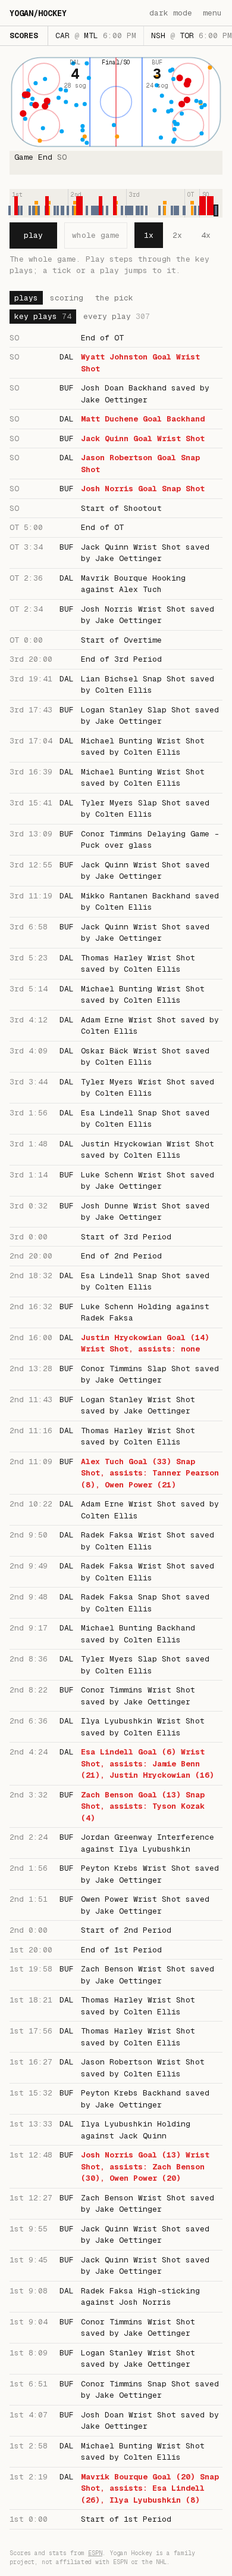
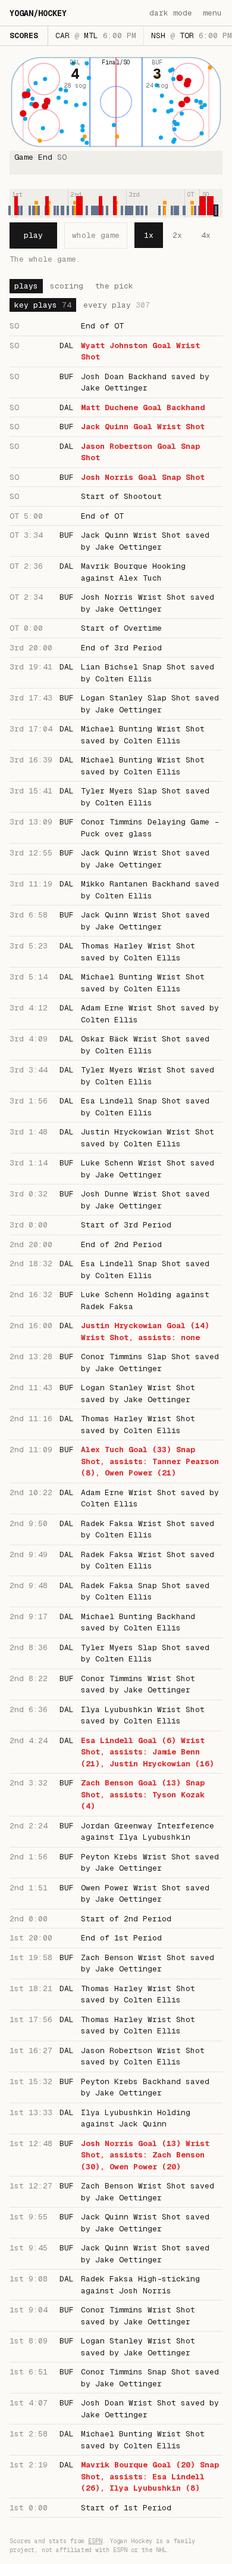
Replay: review fixes and build notes
A failed archive no longer takes the game page down; the page keeps what the
visitor picked when the Replay's plays arrive; a step is timed from the last
move of the playhead; "whole game" keeps the keyboard's focus when it turns
idle. The build notes say what the Replay taught.

diff --git a/apps/web/components/game/replay.tsx b/apps/web/components/game/replay.tsx
@@ -39,9 +39,15 @@ export function Replay({
   tab,
   pathname,
   pick,
+  pending,
 }: {
   header: GameHeader;
   plays: readonly Play[];
+  /**
+   * Shown in place of the controls while `plays` are not yet D1's: the game is laid out and can
+   * be browsed, and what the visitor picked is kept when the controls arrive.
+   */
+  pending?: ReactNode;
   notice?: string;
   tab: GameTab;
   pathname: string;
@@ -52,15 +58,17 @@ export function Replay({
   const dispatch = (action: ReplayAction) =>
     setReplay((state) => replayReducer(state, action, plays, everyPlay));
 
-  // The fixed pace: a step every so often while playing, whatever the game's real gaps were.
+  // The fixed pace: one step a while after the playhead last moved, whatever the game's real gaps
+  // were. Timed from each move, so a play clicked while playing is shown for a whole step.
+  const { playing, speed, playhead } = replay;
   useEffect(() => {
-    if (!replay.playing) return;
-    const pace = setInterval(
+    if (!playing || playhead == null) return;
+    const pace = setTimeout(
       () => setReplay((state) => replayReducer(state, { type: "step" }, plays, everyPlay)),
-      stepMilliseconds(replay.speed),
+      stepMilliseconds(speed),
     );
-    return () => clearInterval(pace);
-  }, [replay.playing, replay.speed, plays, everyPlay]);
+    return () => clearTimeout(pace);
+  }, [playing, speed, playhead, plays, everyPlay]);
 
   const { played, upcoming } = splitAtPlayhead(plays, replay.playhead);
   const wholeGame = upcoming.length === 0;
@@ -81,13 +89,15 @@ export function Replay({
       everyPlay={everyPlay}
       onEveryPlayChange={setEveryPlay}
       transport={
-        <ReplayTransport
-          replay={replay}
-          wholeGame={wholeGame}
-          position={replayPosition(plays, replay.playhead, everyPlay)}
-          everyPlay={everyPlay}
-          dispatch={dispatch}
-        />
+        pending ?? (
+          <ReplayTransport
+            replay={replay}
+            wholeGame={wholeGame}
+            position={replayPosition(plays, replay.playhead, everyPlay)}
+            everyPlay={everyPlay}
+            dispatch={dispatch}
+          />
+        )
       }
     />
   );
@@ -128,8 +138,10 @@ function ReplayTransport({
       <Button
         data-slot="replay-end"
         variant="outline"
-        className="max-sm:h-11 max-sm:px-3"
-        disabled={wholeGame && !replay.playing}
+        className="aria-disabled:cursor-default aria-disabled:opacity-50 aria-disabled:hover:bg-transparent max-sm:h-11 max-sm:px-3"
+        // Not `disabled`: the button turns idle under the finger that pressed it, and a disabled
+        // button drops the keyboard's focus.
+        aria-disabled={wholeGame && !replay.playing}
         onClick={() => dispatch({ type: "end" })}
       >
         whole game
@@ -197,12 +209,12 @@ function ReplaySpeedChoice({
 /** Where the transport will be, for a finished game whose plays are not in D1 yet. */
 export function ReplayPending({ gaveUp }: { gaveUp: boolean }) {
   return (
-    <div data-slot="replay-transport" className="mt-2 flex flex-wrap items-center gap-x-3 gap-y-2">
+    <div data-slot="replay-pending" className="mt-2 flex flex-wrap items-center gap-x-3 gap-y-2">
       <Button className="w-16 max-sm:h-11 max-sm:w-20" disabled>
         play
       </Button>
       <p
-        data-slot="replay-position"
+        data-slot="replay-pending-note"
         className="min-w-0 flex-1 truncate text-foreground/50 max-sm:basis-full"
       >
         {gaveUp

diff --git a/apps/web/lib/replay.ts b/apps/web/lib/replay.ts
@@ -30,13 +30,20 @@ export async function replayPlays(
  * The game a page draws, made ready for the Replay when it is over. A snapshot the Game Agent
  * calls archived already carries D1's plays (the Agent keeps none of its own once they are
  * written), so it is left alone. One that is final and not archived gets `replayPlays`. When
- * that has nothing yet the game comes back as it was read, not archived, and the page asks again.
+ * that has nothing yet, or fails, the game comes back as it was read, not archived, and the page
+ * asks again.
  */
 export async function replayGame(
   game: FoundGame,
   archive?: (gameId: string) => Promise<boolean>,
 ): Promise<FoundGame> {
   if (gamePhase(game.header.status) !== "finished" || game.archived) return game;
-  const plays = await replayPlays(game.header.id, archive);
-  return plays == null ? game : { ...game, plays, archived: true };
+  try {
+    const plays = await replayPlays(game.header.id, archive);
+    return plays == null ? game : { ...game, plays, archived: true };
+  } catch (error) {
+    // D1 or the Agent failing is no reason to lose the page: it has the game, and asks again.
+    console.error(`Game ${game.header.id}: the replay could not be made ready`, error);
+    return game;
+  }
 }

diff --git a/apps/web/components/game/finished-game.tsx b/apps/web/components/game/finished-game.tsx
@@ -4,7 +4,6 @@ import type { GameHeader, Play } from "@yogan-hockey/schemas";
 import { type ReactNode, useEffect, useState } from "react";
 import { loadReplayPlays } from "../../app/nhl/games/[id]/actions";
 import type { GameTab } from "../../lib/game/tabs";
-import { GameView } from "./game-view";
 import { Replay, ReplayPending } from "./replay";
 
 export type FinishedGameProps = {
@@ -79,9 +78,15 @@ export function FinishedGame({
     };
   }, [gameId, archived, waiting]);
 
-  const shared = { header, notice, tab, pathname, pick };
-  if (waiting) {
-    return <GameView {...shared} plays={plays} transport={<ReplayPending gaveUp={gaveUp} />} />;
-  }
-  return <Replay {...shared} plays={loaded ?? plays} />;
+  return (
+    <Replay
+      header={header}
+      plays={loaded ?? plays}
+      pending={waiting ? <ReplayPending gaveUp={gaveUp} /> : undefined}
+      notice={notice}
+      tab={tab}
+      pathname={pathname}
+      pick={pick}
+    />
+  );
 }

diff --git a/apps/web/agents/game-agent.ts b/apps/web/agents/game-agent.ts
@@ -112,7 +112,8 @@ export class GameAgent extends ViewerPolledAgent<GameStreamState> {
    * For the Replay's first open of a game nobody watched: reads the finished game from ESPN once,
    * writes its row and plays to D1 and sets the 24-hour re-read. True when the game is in D1 as
    * this returns; false when it is not finished, has no plays, is waiting on its last poll or the
-   * write failed, and a later call tries again. A game not known to be final is asked about no more often than it is polled.
+   * write failed, and a later call tries again. A game not known to be final is asked about no more
+   * often than it is polled.
    */
   async ensureArchived(): Promise<boolean> {
     if (this.state.archived) return true;

diff --git a/e2e/replay.spec.ts b/e2e/replay.spec.ts
@@ -35,8 +35,8 @@ test("the Replay opens laid out, plays, pauses, jumps to a tick, and follows the
 
   // Play starts again from the first play: no score, and the rest of the game still to come.
   // A press before the page has hydrated does nothing, so press until one lands.
-  await page.locator('[data-slot="replay-speed"] label', { hasText: "4x" }).click();
   await expect(async () => {
+    await page.locator('[data-slot="replay-speed"] label', { hasText: "4x" }).click();
     await page.getByRole("button", { name: "Play the replay" }).click({ timeout: 1000 });
     await expect(transport).toHaveAttribute("data-playing", "true", { timeout: 1000 });
   }).toPass();

diff --git a/apps/web/lib/game/replay.ts b/apps/web/lib/game/replay.ts
@@ -9,6 +9,7 @@ export type ReplaySpeed = (typeof REPLAY_SPEEDS)[number];
 /** The fixed pace: one play every 1.2 seconds at 1x, whatever the game's real gaps were. */
 const STEP_MILLISECONDS = 1200;
 
+/** How long a Replay waits between steps at `speed`. */
 export function stepMilliseconds(speed: ReplaySpeed): number {
   return STEP_MILLISECONDS / speed;
 }
@@ -26,6 +27,7 @@ export type Replay = {
   speed: ReplaySpeed;
 };
 
+/** A Replay as it opens: for browsing, the whole game laid out and nothing moving. */
 export const REPLAY_OPENED: Replay = { playhead: null, playing: false, speed: 1 };
 
 export type ReplayAction =

diff --git a/apps/web/lib/replay.test.ts b/apps/web/lib/replay.test.ts
@@ -58,6 +58,11 @@ test(
     // One that will not archive stays a finished game with the plays it came with.
     const stuck: FoundGame = { ...unarchived, header: { ...final.header, id: "9000002" } };
     expect(await replayGame(stuck, async () => false)).toBe(stuck);
+
+    // Nor does one whose archive fails take the page down.
+    vi.spyOn(console, "error").mockImplementation(() => {});
+    const failing = async () => Promise.reject(new Error("D1 is down"));
+    expect(await replayGame(stuck, failing)).toBe(stuck);
   },
   COLD_START,
 );

diff --git a/apps/web/components/game/game-view.tsx b/apps/web/components/game/game-view.tsx
@@ -11,6 +11,7 @@ import { GameRink } from "./game-rink";
 import { PeriodTimeline } from "./period-timeline";
 import { KeyPlaysToggle, PlaysList, ScoringSummary } from "./plays-list";
 
+/** No plays still to come: every page but a Replay in the middle of a game. One array, not one a render. */
 const NONE: readonly Play[] = [];
 
 /**

diff --git a/docs/agents/build-notes.md b/docs/agents/build-notes.md
@@ -212,7 +212,7 @@ The Worker `yogan-hockey` has been live on `hockey.yogan.dev` since 2026-10-06, 
 
 ## The game page's parts (#49)
 
-- **`/skeleton/game` is the living sample**: `GameView` drawn from the recorded shootout (`getGameSummary("401803652")`, so the fixture in fixture mode and ESPN itself otherwise). `?live=1` shows it with a live header, for the live overlay; `?tab=scoring` and `?tab=pick` open the other tabs. It is scaffolding and goes when `/nhl/games/:id` exists; `e2e/game.spec.ts` goes with it, or moves to the real page.
+- **`/skeleton/game` and `e2e/game.spec.ts` are gone** (#51): the Replay at `/nhl/games/401803652` is the page that draws the recorded shootout, and `e2e/replay.spec.ts` carries what the sample's test checked.
 - **A game page renders one component**: `<GameView header plays tab pathname pick />` from `apps/web/components/game/game-view.tsx`. `header` is a `GameHeader`, `plays` every play so far in order, `tab` is `gameTabFrom((await searchParams).tab)`, `pathname` the page's own path (the tabs are `UrlTabs` links back to it), `pick` whatever "the pick" tab shows. It is a client component and keeps two things itself: the picked play and the key-plays toggle. Both survive a change of tab, because the tab is a soft navigation.
 - **The Game Stream feeds it the Agent's state as it arrives; the Replay feeds it `plays.slice(0, playhead)`.** With no play picked the focus is the last play of `plays`, so a growing list follows the game and a playhead steps through it. The overlay's score, shots, period and clock come from `header` alone (never from plays), so a Replay showing the score at its playhead passes a header with them changed. `status` replaces the words over centre ice ("End of 2nd") and `notice` adds a warning under them ("Updates delayed"). `selectedId` and `onSelect` are for a page that must hold the pick itself; leave them out otherwise.
 - **The parts are usable alone**, all props and no state: `GameRink` (`header`, `plays`, `drawn`, `focus`, `status`, `notice`), `Rink` (`plays`, `focus`), `PeriodTimeline` (`game`, `plays`, `ticks`, `focusId`, `selectedId`, `onSelect`), `PlaysList`, `ScoringSummary`, `KeyPlaysToggle`. Each takes every play as `plays` and the ones to show (key plays or all) separately, because placing a shootout tick and working out the ends both need the whole game.
@@ -231,13 +231,30 @@ The Worker `yogan-hockey` has been live on `hockey.yogan.dev` since 2026-10-06, 
 - **What opens the socket** is `streamStarts(snapshotStatus, scoreboardStatus)`: a snapshot that is live, or a scheduled one whose game the Scoreboard (`useScoreboard()`) reports live or final. `GamePage` keeps the answer in state once true, because the slate moves to another day under an open page and the `router.refresh()` at a final hands it a new snapshot. `GameStream`, inside it, is the only caller of `useGameStream`. A game final when opened never gets a socket.
 - **With the socket just opened the page still shows the matchup** until the Agent's header says live, so the rink never shows a scheduled header with a 0-0 score.
 - **The words over centre ice are `streamReading`**: "End of 2nd" when the last play is `period-end`; the header's clock when it has one; when it is "0:00" (every recording), the Scoreboard's clock for the same game and period ("2nd 12:34", time left, as the ticker shows it); failing that the period alone. "Updates delayed" is its `notice`. #54 settles the clock against a real game: if a live summary carries a clock, the first rule already takes it.
-- **The Replay's seam (#51) is `FinishedGame`** (`components/game/finished-game.tsx`): props `gameId`, `header`, `plays`, `archived`, `notice`, `tab`, `pathname`, `pick`. Today it hands them to `GameView`. A game that ends on an open page gets the stream's plays and `archived` turning true about 30 seconds later; a game opened after its final gets the snapshot's. The comment in `app/nhl/games/[id]/page.tsx` marks where a game nobody watched is archived (`archiveGame(id)`) and read from D1. Going from live to finished remounts `GameView`, so the picked play and the every-play choice start again; the Replay holds them itself anyway.
+- **`FinishedGame`** (`components/game/finished-game.tsx`) draws the Replay (see "The Replay (#51)"): props `gameId`, `header`, `plays`, `archived`, `notice`, `tab`, `pathname`, `pick`. A game that ends on an open page gets the stream's plays and `archived` turning true about 30 seconds later; a game opened after its final gets the snapshot's. Going from live to finished remounts `GameView`, so the picked play and the every-play choice start again; the Replay holds them itself anyway.
 - **The pick's slot (#53) is `GamePick`** (`components/game/game-pick.tsx`, a server component, props `gameId` and `header`). The page renders it once and `GamePage` shows it as "The pick" section of the scheduled page and as the tab afterwards. It is rendered by the server at first paint, so right-or-wrong at a final seen live needs the `router.refresh()` the Scoreboard already causes.
 - **The matchup facts are a cached read**, `cachedGamePregame(id)` in `lib/espn.ts` (15 minutes, tagged `game:<id>`), not part of the Agent's snapshot: only a scheduled page asks for it, and a failure draws nothing instead of failing the page. `GameMatchup` draws it; `MatchupRink` is the scheduled rink, sharing `GameRink`'s overlay places so the ice does not move at the switch.
 - **An id that is not digits is not found without waking an Agent** (`findGame`, `lib/find-game.ts`), so a mistyped address makes no Durable Object.
 - **Driving a game in Playwright**: `e2e/game-driver.ts`. `driveGame(page, id)` passes the Scoreboard's socket through (and pushes the slate with the game changed: `scoreboard({ status: "live", period, clock, scores })`) and answers the Game Agent's socket itself (`agent(state, plays)`, `message(...)`); `recordedGame(baseURL)` gets the shootout's plays from that game's real Agent over a Node `WebSocket` and renames its teams to the scheduled game's, since the only page that starts scheduled in fixture mode is 401892449. `node scripts/game-page-shots.ts` uses the same driver for the shots in `docs/design/game-page/`. Node runs the `.ts` itself, but not from under `node_modules`.
 - **`getByText` on a status can wait forever**: the same words are in a hidden timeline label. Filter the `[data-slot="rink-status"]` locator by text instead.
-- **Seen once and not explained**: the first request for the finished game after a cold start returned a snapshot with no header and no `notFound` (the page answers 500, the next request 200), right after workerd's "RPC connection broken ... exceeds size limit" line. It did not happen on the next clean start.
+- **A snapshot with no header and no `notFound`** (seen once, on a finished game's first request after a cold start, right after workerd's "RPC connection broken ... exceeds size limit" line; never reproduced) is handled since #51: `findGame` reads once more at once, and a second empty answer or a second throw is `{ state: "unreadable" }`, which the page says in words ("This game could not be read just now") instead of answering 500. `findGame` returns a `GameLookup` (`found`, `missing`, `unreadable`), not a game or null.
+
+## The Replay (#51)
+
+- **The rules are `replayReducer` in `apps/web/lib/game/replay.ts`**, tested in `replay.test.ts`. The playhead is an index into every play of the game, or null for the whole game laid out, which is how a Replay opens and where playing ends. It is never an index into the Key plays, so the key-plays toggle cannot move it; the toggle decides only what a step lands on (the Key plays, or every play once every play is listed). The game's last play, "Game End", is the whole game: stepping or clicking onto it is the end.
+- **Play from the whole game starts again at the first play.** A step is 1.2 seconds at 1x (`stepMilliseconds`), 2x and 4x divide it; the game's real gaps are not followed.
+- **`Replay` (`components/game/replay.tsx`) gives `GameView` the game at the playhead**: `plays` up to it, `upcoming` for the rest (faint ticks that can be clicked; they also keep the timeline's layout and the rink's ends where the whole game puts them), `headerAt` for the score and shots, `statusAt` for the words over centre ice, and the controls as `transport`, which takes the place of the timeline's hint. `GameView`'s `everyPlay` and `selectedId` are controlled by it.
+- **A shootout play's running score is not the game's**: in the recording every shootout play says 3-2 through a 3-3 shootout. `headerAt` takes the score from the last play before the shootout, and the final from the header alone (only the header gives the winner its extra goal).
+- **ESPN has no running shots**, so `headerAt` counts shots on goal and goals up to the playhead, shootout left out. For the recording that makes 53 by the end where the header says 28 and 24, so the count can be one off just before the end; the whole game shows the header's own.
+- **Where the plays come from** is `lib/replay.ts`. `replayGame(found)` in the route: a snapshot the Agent calls archived already carries D1's plays (the Agent reads them with `getGameWithPlays`), so nothing more is read; a final one that is not archived gets `replayPlays(id)`, which reads D1, and only if the plays are missing calls `archiveGame(id)` and reads D1 again. The second open is one D1 read and no ESPN.
+- **The header is still the Game Agent's**, not D1's: a `games` row has no shots, names or "Final/SO". For a final game the Agent answers from its stored state without asking ESPN.
+- **A page that saw the game end** shows the stream's plays for browsing with the transport's place held (`ReplayPending`), and `FinishedGame` calls the Server Action `loadReplayPlays(gameId)` (`app/nhl/games/[id]/actions.ts`): at once when `archived` turns true, otherwise every 10 seconds for two minutes. It becomes the Replay when plays come back. This path has no browser test: the driven game in `e2e/game-driver.ts` is the scheduled fixture, which the real Agent will never archive.
+- **`ensureArchived()` answers false while the last poll is still to come** (an `archive` timer with `lastPoll: true`). Without that, any open of the page in the half minute after a final, including the `router.refresh()` the Scoreboard causes on the page that watched it, wrote the game before ESPN's closing plays.
+- **A timeline tick and its play's row have the same accessible name** ("2nd 4:24 Esa Lindell Goal ..."), so `getByRole("button", { name })` matches two. Find a tick as `[data-slot="timeline-tick"][aria-label^="2nd 4:24 "]`. Ticks for plays not yet reached have `data-upcoming`.
+- **The whole game has one more tick than Key plays** (75 for the recording's 74): the play in focus is always drawn, and "Game End" is not a Key play.
+- **`node scripts/replay-shots.ts [baseURL] [outDir]`** takes the shots in `docs/design/replay/` (opened, playing, end; light and dark; 1440 and 390) against a fixture-mode dev server.
+- **This machine has no `lsof`.** A script that stops a server with it stops nothing and says nothing; Playwright then reuses the stale server, and with `.cloudflare/state` deleted under it every spec fails. Use the `ss -ltnp` line in the Playwright notes.
+- **The recorded scheduled game lists Sergei Bobrovsky under Toronto** because ESPN's `goalies.homeTeam` (`teamId` 21) does. The translation was not at fault; since #51 it gives each team the list carrying its `teamId` rather than trusting the `homeTeam`/`awayTeam` key.
 
 ## A page with an id: the team page (#43)
 
